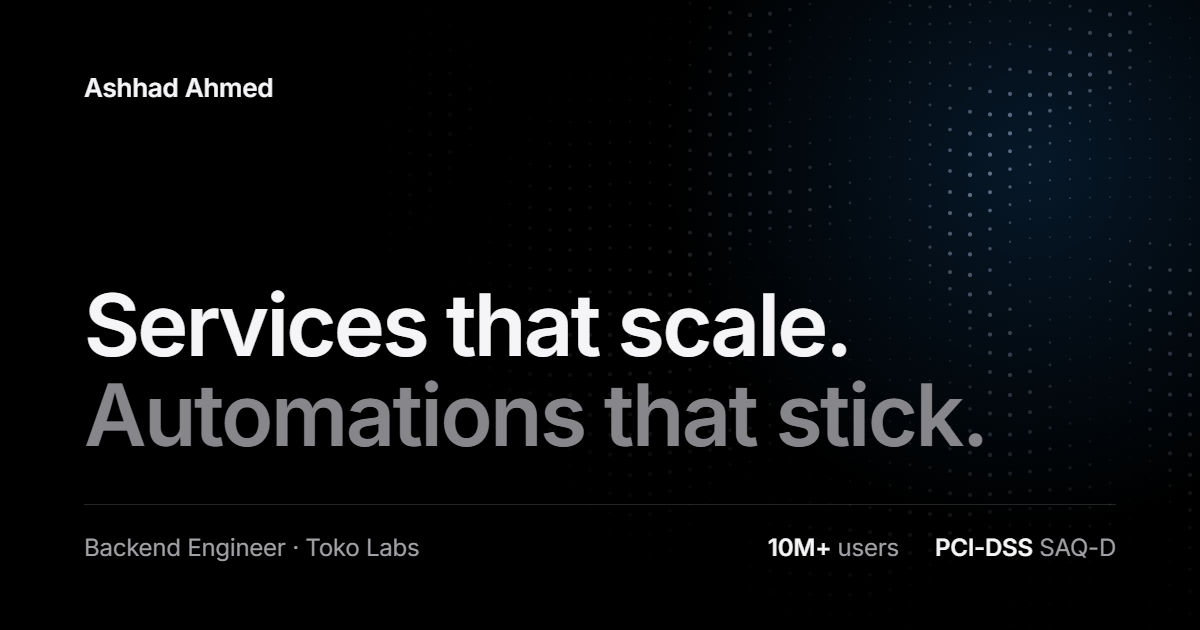
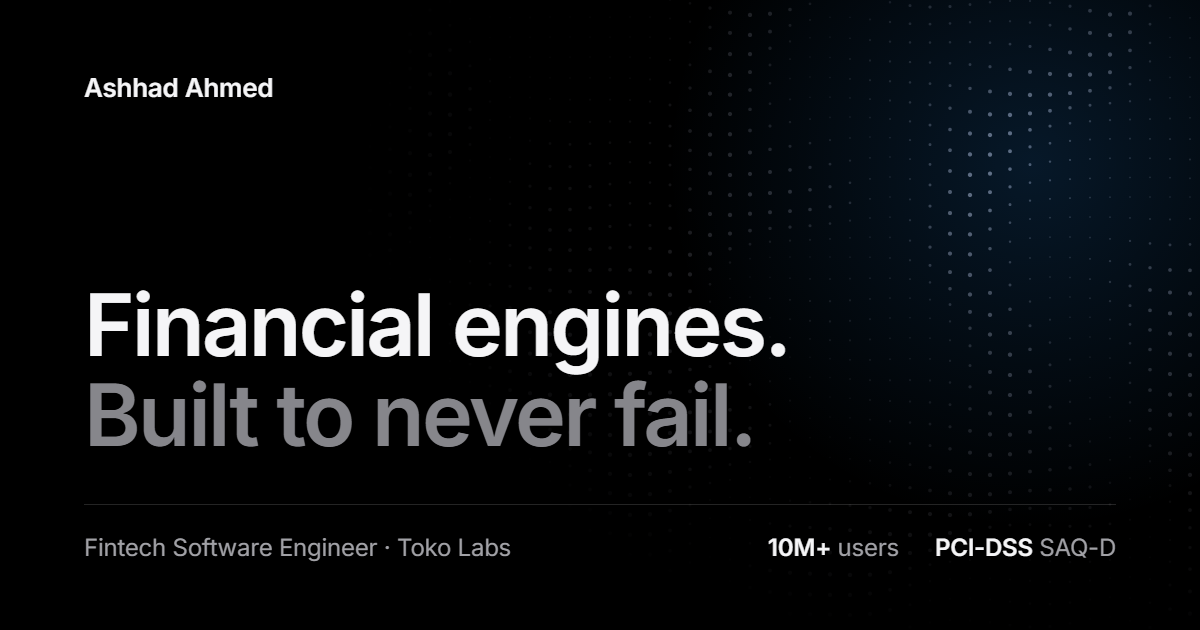
Update hero copy, role, and share image to fintech positioning
New headline "Financial engines. Built to never fail." with plain-English
intro. Role is now Fintech Software Engineer everywhere (hero, contact
card, footer, page title, meta tags, share image). Contact card drops the
long status line. README links to ashhadahmd.com.

Changed region(s): [[0.0617, 0.6032, 0.8325, 0.7238], [0.0617, 0.4524, 0.7092, 0.6032], [0.0617, 0.8444, 0.4317, 0.9048]]

diff --git a/index.html b/index.html
@@ -12,19 +12,19 @@
       href="https://fonts.googleapis.com/css2?family=Inter:wght@400;500;600;700;800&display=swap"
     />
 
-    <title>Ashhad Ahmed | Backend Engineer</title>
-    <meta name="description" content="Backend engineer at Toko Labs building Python services, payment infrastructure, and data pipelines. Case studies from Rupin (10M+ users) and Cobu&#39;s Visa and Mastercard certified payment gateway." />
+    <title>Ashhad Ahmed | Fintech Software Engineer</title>
+    <meta name="description" content="Fintech software engineer at Toko Labs. I build Python backends, certified payment gateways, and automated systems that move money for millions of users. Case studies from Rupin and Cobu." />
     <meta name="author" content="Ashhad Ahmed" />
 
     <!-- VITE_SITE_URL is the live site URL, set by the deploy workflow. -->
     <meta property="og:type" content="website" />
     <meta property="og:url" content="%VITE_SITE_URL%/" />
-    <meta property="og:title" content="Ashhad Ahmed | Backend Engineer" />
-    <meta property="og:description" content="Backend engineer at Toko Labs building Python services, payment infrastructure, and data pipelines. Case studies from Rupin (10M+ users) and Cobu&#39;s Visa and Mastercard certified payment gateway." />
+    <meta property="og:title" content="Ashhad Ahmed | Fintech Software Engineer" />
+    <meta property="og:description" content="Fintech software engineer at Toko Labs. I build Python backends, certified payment gateways, and automated systems that move money for millions of users. Case studies from Rupin and Cobu." />
     <meta property="og:image" content="%VITE_SITE_URL%/og-image.png" />
     <meta property="og:image:width" content="1200" />
     <meta property="og:image:height" content="630" />
-    <meta property="og:image:alt" content="Ashhad Ahmed, Backend Engineer. Services that scale. Automations that stick." />
+    <meta property="og:image:alt" content="Ashhad Ahmed, Fintech Software Engineer. Financial engines. Built to never fail." />
     <meta name="twitter:card" content="summary_large_image" />
   </head>
   <body>

diff --git a/src/data/portfolio.ts b/src/data/portfolio.ts
@@ -1,14 +1,16 @@
 import { asset } from '@/src/lib/utils';
 
 const email = 'ashhad.ahmed776@gmail.com';
+const role = 'Fintech Software Engineer';
+const company = 'Toko Labs';
 
 export const portfolioData = {
   profile: {
     name: 'Ashhad Ahmed',
-    role: 'Backend & Data Automation Engineer',
+    role,
+    company,
     email,
     location: 'Karachi, Pakistan',
-    currentStatus: 'Engineering financial infrastructure and data pipelines at Toko Labs',
     // Put the PDF in /public, then set this to asset('ashhad-ahmed-resume.pdf').
     resumeUrl: '',
     avatar: asset('avatar.jpg'),
@@ -18,15 +20,15 @@ export const portfolioData = {
       linkedin: 'https://linkedin.com/in/ashhad-ahmed',
     },
 
-    coreStack: ['Python', 'Backend Systems', 'Data Engineering', 'Automation'],
+    coreStack: ['Python', 'Payment Systems', 'Ledgers', 'Automation'],
   },
 
   hero: {
-    subhead: 'Backend Engineer · Toko Labs',
-    headline: 'Services that scale.',
-    headlineSecond: 'Automations that stick.',
+    subhead: `${role} · ${company}`,
+    headline: 'Financial engines.',
+    headlineSecond: 'Built to never fail.',
     description:
-      'High-throughput Python backends, end-to-end automation systems, and data pipelines built for extreme reliability.',
+      'I build Python backends, certified payment gateways, and automated systems that move money for millions of users.',
     primaryCta: { label: 'See the work', href: '#work' },
     secondaryCta: { label: 'Email me', href: `mailto:${email}` },
   },

diff --git a/src/pages/Overview.tsx b/src/pages/Overview.tsx
@@ -151,12 +151,12 @@ export function Overview() {
             </p>
           </Reveal>
 
-          <h1 className="type-display mx-auto mb-10 max-w-[14ch] sm:mb-6">
+          <h1 className="type-display mx-auto mb-10 max-w-[16ch] sm:mb-6">
             <MaskedLines immediate delay={0.1} lines={[hero.headline, hero.headlineSecond]} />
           </h1>
 
           <Reveal immediate delay={0.34} y={20} className="hidden sm:block">
-            <p className="type-intro mx-auto mb-8 max-w-[44ch]">{hero.description}</p>
+            <p className="type-intro mx-auto mb-8 max-w-[48ch]">{hero.description}</p>
           </Reveal>
 
           <Reveal immediate delay={0.42} y={16}>

diff --git a/src/pages/Contact.tsx b/src/pages/Contact.tsx
@@ -36,10 +36,8 @@ export function Contact() {
                   <h2 className="text-[17px] font-semibold tracking-[-0.016em] text-primary">
                     {profile.name}
                   </h2>
-                  <p className="type-caption">
-                    {profile.role}
-                    {profile.currentStatus ? ` · ${profile.currentStatus}` : ''}
-                  </p>
+                  <p className="type-caption">{profile.role}</p>
+                  <p className="type-caption">{profile.company}</p>
                 </div>
               </div>
             )}

diff --git a/src/App.tsx b/src/App.tsx
@@ -4,7 +4,7 @@ import { MainLayout } from './components/layout/MainLayout';
 import { Overview } from './pages/Overview';
 import { Contact } from './pages/Contact';
 
-const DEFAULT_TITLE = 'Ashhad Ahmed | Backend Engineer';
+const DEFAULT_TITLE = 'Ashhad Ahmed | Fintech Software Engineer';
 
 const titles: Record<string, string> = {
   '/contact': 'Contact | Ashhad Ahmed',

diff --git a/README.md b/README.md
@@ -1,16 +1,16 @@
 <p align="center">
-  <img src="public/og-image.png" alt="Ashhad Ahmed — Services that scale. Automations that stick." width="100%" />
+  <img src="public/og-image.png" alt="Ashhad Ahmed — Financial engines. Built to never fail." width="100%" />
 </p>
 
 <p align="center">
-  <a href="https://ashhadahmd.github.io/portfolio/"><strong>Live site</strong></a> ·
+  <a href="https://ashhadahmd.com"><strong>ashhadahmd.com</strong></a> ·
   <a href="https://linkedin.com/in/ashhad-ahmed">LinkedIn</a> ·
   <a href="mailto:ashhad.ahmed776@gmail.com">Email</a>
 </p>
 
 # Ashhad Ahmed — Portfolio
 
-Personal site of Ashhad Ahmed, a backend engineer at Toko Labs building Python services for payments, wallets, and data pipelines. It has case studies, the tech stack, and a contact page.
+Personal site of Ashhad Ahmed, a fintech software engineer at Toko Labs building Python backends for payments, wallets, and automated systems. It has case studies, the tech stack, and a contact page.
 
 ## Featured work
 
